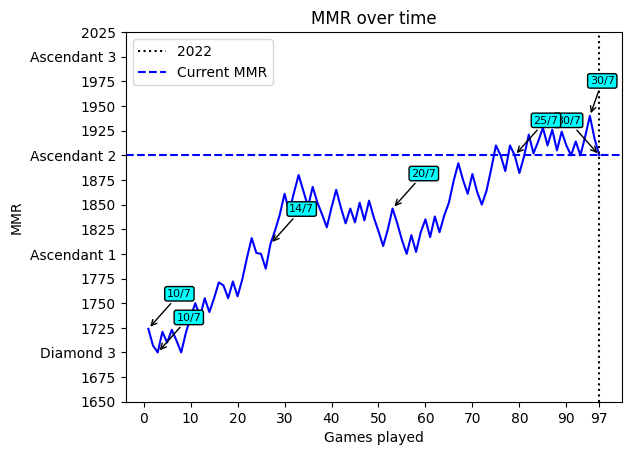
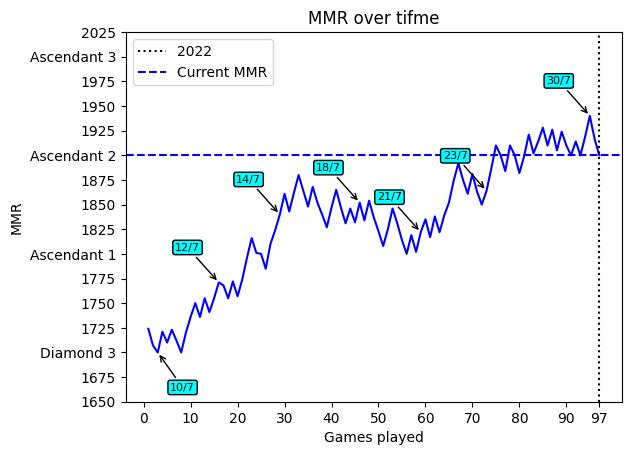
updated graphs to show acts, other stuff

diff --git a/datedGraphs.py b/datedGraphs.py
@@ -1,3 +1,4 @@
+from turtle import left
 import matplotlib.pyplot as plt
 import math
 from adjustText import adjust_text
@@ -44,9 +45,22 @@ def roundup(x):
 def rounddown(x):
     return int(math.floor(x / 100.0)) * 100
 
-def mark_graph(texts, x, yint, ydates, i):
-    texts.append(plt.text(s=ydates[i], x=x[i], y=yint[i], bbox=dict(boxstyle="round, pad=0.2", fc="cyan"), size=8.0))
-    return texts
+def mark_graph(texts, x, yint, ydates, i, marked, r):
+
+    if i < 0:
+        i = len(yint) - 1
+
+    if i not in marked:
+        texts.append(plt.text(s=ydates[i], x=x[i], y=yint[i], bbox=dict(boxstyle="round, pad=0.2", fc="cyan"), size=8.0))
+
+        for j in range(i - r, i + r):
+            if j >= 0 and j not in marked:
+                if j == len(yint):
+                    break
+                marked.append(j)
+        
+
+    return marked, texts
 
 def graph():
     y = ["1724,Sunday-July-10-2022-7:42-AM", "1707,Sunday-July-10-2022-8:18-AM", "1700,Sunday-July-10-2022-9:14-AM", "1721,Sunday-July-10-2022-9:52-AM", 
@@ -163,47 +177,62 @@ def graph():
     axes.set_yticklabels(labely)
     p = plt.plot(x, yint, 'b-')
     
+    r = math.floor(len(yint)/7.0)
     marked = []
-    texts = []
+    topRightTexts = []
+    botRightTexts = []
+    topLeftTexts = []
+    botLeftTexts = []
 
     peakMMRIndex = get_index(yint, max(yint))
     bottomMMRIndex = get_index(yint, min(yint))
-    texts = mark_graph(texts, x, yint, ydates, peakMMRIndex)
-    texts = mark_graph(texts, x, yint, ydates, bottomMMRIndex)
-    texts = mark_graph(texts, x, yint, ydates, 0)
-    texts = mark_graph(texts, x, yint, ydates, -1)
-    
-    marked.append(peakMMRIndex)
-    marked.append(bottomMMRIndex)
-    marked.append(0)
-    marked.append(-1)
 
-    rohn = math.floor(len(y)/7)
-    i = rohn
-    while i < len(ydates):
-        mark = True
-        for j in range((i - rohn), (i + rohn)):
-            if j in marked:
-                mark = False
-                break
+    if peakMMRIndex != 0 and yint[peakMMRIndex] != yint[-1] and yint[peakMMRIndex - 1] > yint[peakMMRIndex + 1]:
+        marked, topLeftTexts = mark_graph(topLeftTexts, x, yint, ydates, peakMMRIndex, marked, r)
+    else:
+        marked, topLeftTexts = mark_graph(topLeftTexts, x, yint, ydates, peakMMRIndex, marked, r)
+
+    if bottomMMRIndex != 0 and yint[bottomMMRIndex] != yint[-1] and yint[bottomMMRIndex - 1] > yint[bottomMMRIndex + 1]:
+        marked, botLeftTexts = mark_graph(botLeftTexts, x, yint, ydates, bottomMMRIndex, marked, r)
+    else:
+        marked, botRightTexts = mark_graph(botRightTexts, x, yint, ydates, bottomMMRIndex, marked, r)
+
+    if yint[0] < yint[1]:
+        marked, botRightTexts = mark_graph(botRightTexts, x, yint, ydates, 0, marked, r)
+    else:
+        marked, topRightTexts = mark_graph(topRightTexts, x, yint, ydates, 0, marked, r)
+
+    if yint[-1] < yint[-2]:
+        marked, botLeftTexts = mark_graph(botLeftTexts, x, yint, ydates, -1, marked, r)
+    else:
+        marked, topLeftTexts = mark_graph(topLeftTexts, x, yint, ydates, -1, marked, r)
+
+    for i in range(len(yint)):
+        if i not in marked:
+            if yint[i - 2] < yint[i] and yint[i - 1] < yint[i]:
+                marked, topLeftTexts = mark_graph(topLeftTexts, x, yint, ydates, i, marked, r)
+            elif yint[i - 2] > yint[i] and yint[i - 1] > yint[i]:
+                marked, botLeftTexts = mark_graph(botLeftTexts, x, yint, ydates, -1, marked, r)
             
-        if mark:
-            texts = mark_graph(texts, x, yint, ydates, i)
-            marked.append(i)
-        
-        i += rohn
+            elif yint[i + 2] < yint[i] and yint[i + 1] < yint[i]:
+                marked, topRightTexts = mark_graph(topRightTexts, x, yint, ydates, 0, marked, r)
+            elif yint[i + 2] > yint[i] and yint[i + 1] > yint[i]:
+                marked, botRightTexts = mark_graph(botRightTexts, x, yint, ydates, 0, marked, r)
 
     for year in years:
-        #plt.vlines(year[1], ymin, ymax, linestyles ="dotted", colors ="k", label=year[0])
         plt.axvline(year[1], linestyle="dotted", color="k", label=year[0])
 
-    adjust_text(texts, arrowprops=dict(arrowstyle='->'), force_points=30)
+    adjust_text(topRightTexts, arrowprops=dict(arrowstyle='->'), force_points=(20, 30), force_text=(30, 30))
+    adjust_text(botRightTexts, arrowprops=dict(arrowstyle='->'), force_points=(20, -40), force_text=(30, 30))
+
+    adjust_text(botLeftTexts, arrowprops=dict(arrowstyle='->'), force_points=(-70, -40), force_text=(30, 30))
+    adjust_text(topLeftTexts, arrowprops=dict(arrowstyle='->'), force_points=(-70, 30), force_text=(30, 30))
 
     colour = p[0].get_color()
     plt.axhline(yint[-1], linestyle="dashed", color=colour, label='Current MMR')
     plt.xlabel('Games played')
     plt.ylabel('MMR')
-    plt.title('MMR over time')
+    plt.title('MMR over tifme')
     plt.legend(loc='upper left')
     plt.savefig('date-graph.png', bbox_inches="tight")
 

diff --git a/graphs.py b/graphs.py
@@ -31,7 +31,7 @@ def roundup(x):
 def rounddown(x):
     return int(math.floor(x / 100.0)) * 100
 
-def make_graph(ign, num=0, update=True):
+def make_graph(ign, num=0, update=True, acts=False):
 
     tag = valorant.get_tag(ign)
     
@@ -47,8 +47,9 @@ def make_graph(ign, num=0, update=True):
         return False
     
     file1 = open(f'elo_history/{ign}.txt', 'r')
+    y = [x.split(',')[0] for x in file1.readlines()]
+    file1.close()
 
-    y = [x[0:4] for x in file1.readlines()]
     if len(y) == 2:
         return None
     y.pop(0)
@@ -69,7 +70,8 @@ def make_graph(ign, num=0, update=True):
     ymin = rounddown(min(y))
     ymax = roundup(max(y))
 
-    axes = plt.gca()
+    fig, ax = plt.subplots()
+    axes = fig.gca()
     axes.set_ylim([ymin,ymax])
     
     ticks = []
@@ -94,7 +96,6 @@ def make_graph(ign, num=0, update=True):
     for value in ticks:
         if value % 100 != 0:
             labely.append(str(value))
-
         else:
             labely.append(ranks[value])
 
@@ -128,18 +129,42 @@ def make_graph(ign, num=0, update=True):
     print(major[-1].get_text())
 
     axes.set_yticklabels(labely)
-    
 
-    p = plt.plot(x, y)
+    p = ax.plot(x, y)
     colour = p[0].get_color()
-    plt.axhline(y=y[-1], color=colour, linestyle='--')
-    plt.xlabel('Games played')
-    plt.ylabel('MMR')
-    plt.title(ign + '\'s MMR over time')
+    plt.axhline(y=y[-1], color=colour, linestyle=':', label='Cuurent MMR')
+    plt.axhline(y=max(y), color=colour, linestyle='--', label='peak MMR')
+    ax.set(xlabel='Games played', ylabel='MMR')
+    ax.set_title(ign + '\'s MMR over time')
 
-    plt.savefig(f'elo_graphs/{ign}.png', bbox_inches="tight")
-    file1.close()
-    plt.clf()
+    if acts:
+        act_data = valorant.get_data('mmr', ign, tag)
+        if not act_data[0]:
+            return False
+        
+        act_data = act_data[1]['data']['by_season']
+        act_games = []
+
+        for act in act_data.keys():
+            if 'error' not in act_data[act].keys():
+                act_games.append((act, act_data[act]['number_of_games']))
+
+        temp = len(x)
+        i = 0
+        colours = ['b', 'r', 'g', 'k', 'c', 'm', 'y', 'darkgreen', 'peru']
+        while temp > 0:
+            plt.axvline(temp, linestyle="dotted", color=colours[i], label=act_games[i][0])
+            temp -= act_games[i][1]
+            i += 1
+
+        box = ax.get_position()
+        ax.set_position([box.x0, box.y0, box.width * 0.8, box.height])
+        ax.legend(loc='center left', bbox_to_anchor=(1, 0.5))
+    else:
+        ax.legend(loc='lower right')
+    
+    fig.savefig(f'elo_graphs/{ign}.png', bbox_inches="tight")
+    fig.clf()
 
     return True
 
@@ -169,7 +194,7 @@ def multigraph(players):
         
         file1 = open(f'elo_history/{ign}.txt', 'r')
 
-        y = [x.strip() for x in file1.readlines()]
+        y = [x.split(',')[0] for x in file1.readlines()]
         if len(y) == 2:
             fail[1].append(ign)
             continue
@@ -261,5 +286,5 @@ if __name__ == "__main__":
     #multigraph(['8888','azatory','bento2','crossaxis','fade','fakinator', 'giroud', 'grovyle', 'imabandwagon', 'jokii', 'katchampion',
     # 'yovivels', 'dilka30003', 'slumonaire', 'silentwhispers', 'lmao', 'jack', 'thesugarman', 'hoben222', 'quackinator'])
     #multigraph(['boiwhogotstabbed', 'boiubouttastab', 'boiimbouttastab', 'boishebouttastab'])
-    print(make_graph("fakinator", update=False))
+    print(make_graph("kyouko", update=False, acts=False))
     #update_all_graphs()

diff --git a/main.py b/main.py
@@ -136,8 +136,12 @@ async def stats(ctx, username=""):
 @slash.slash(description="graph",
              guild_ids=guild_ids,
              options = [
-             create_option(name="usernames", description="Enter username(s), seperate with commas for more than one", option_type=3, required=True)])
-async def graph(ctx, usernames=""):
+             create_option(name="usernames", description="Enter username(s), seperate with commas for more than one", option_type=3, required=True),
+             create_option(name="update", description="Force update to latest MMR", option_type=3, required=True, 
+             choices=[create_choice(name="Yes",value="yes"), create_choice(name="No",value="no")]),
+             create_option(name="type", description="Select type of graph", option_type=3, required=False, 
+             choices=[create_choice(name="Basic",value="basic"), create_choice(name="With Acts",value="acts")])])
+async def graph(ctx, usernames="", type="", update=""):
     users = usernames.split(',')
     
     for i in range(0, len(users)):
@@ -146,7 +150,15 @@ async def graph(ctx, usernames=""):
     if len(users) == 1:
         the_message = await ctx.send("please wait...")
         msg = ""
-        flag = graphs.make_graph(users[0])
+
+        acts = False
+        updates = False
+        if update == 'yes':
+            updates = True
+        if type == 'acts':
+            acts = True
+
+        flag = graphs.make_graph(users[0], update=updates, acts=acts)
         if flag == False:
             await the_message.edit(content="Player not found or api being stupid, or it might even be aws :(")
 

diff --git a/valorant.py b/valorant.py
@@ -51,7 +51,12 @@ def get_data(category, ign="", tag="", region="", crosshair_code=""):
         john = json.loads(r.text)
 
         if ign != "":
-            if john['name'] == None or john['tag'] == None or ('error' in john.keys()):
+
+            if category == 'mmr history':
+                if john['name'] == None or john['tag'] == None or ('error' in john.keys()):
+                    return (False, 'name/tag error?')
+            
+            elif john['data']['name'] == None or john['data']['tag'] == None or ('error' in john.keys()):
                 return (False, 'name/tag error?')
         
         return (True, john)
